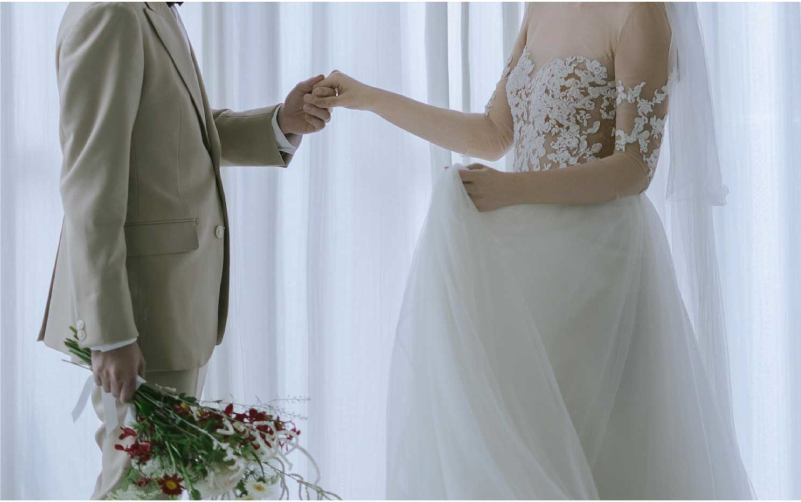
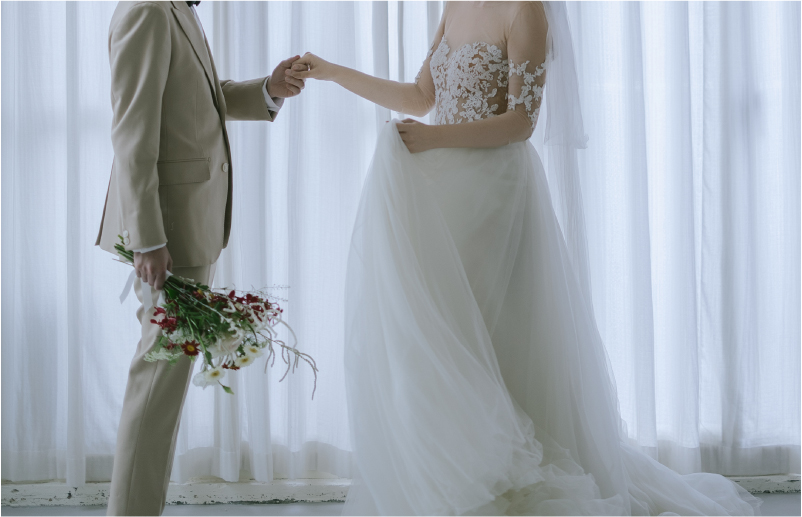
Adjust style

diff --git a/src/components/Images/HoldHands.js b/src/components/Images/HoldHands.js
@@ -14,7 +14,6 @@ gsap.registerPlugin(ScrollTrigger)
 const HoldHands = () => {
   const isProd = process.env.NODE_ENV === 'production'
   const rootUrl = process.env.NEXT_PUBLIC_ROOT_URL
-  const imageRef = useRef(null)
   const container = useRef(null)
   const [image, setImage] = useState('/2X0A4352-800.jpg')
   const [isLoaded, setIsLoaded] = useState(false)
@@ -28,7 +27,7 @@ const HoldHands = () => {
   useGSAP(
     () => {
       if (isLoaded) {
-        const image = imageRef?.current
+        const image = `.${styles.image}`
 
         gsap
           .to(image, {
@@ -46,7 +45,7 @@ const HoldHands = () => {
             yPercent: 20,
             scrollTrigger: {
               scrub: true,
-              start: 'top top',
+              start: 'top center',
               trigger: image
             }
           })
@@ -71,55 +70,12 @@ const HoldHands = () => {
       ref={container}
       className={styles.wrapper}
     >
-      <Image
-        ref={imageRef}
-        alt={image}
-        src={isProd ? `${rootUrl}${image}` : image}
-        fill={true}
-        sizes='100vw'
-      />
-      <div className={`${styles.text} ${AlohaMagazineLight.className}`}>
-        <div className={styles.line}>
-          <span>J</span>
-          <span>O</span>
-          <span>Y</span>
-          <span>F</span>
-          <span>U</span>
-          <span>L</span>
-          <span>L</span>
-          <span>Y</span>
-          &nbsp;
-          &nbsp;
-          <span>I</span>
-          <span>N</span>
-          <span>V</span>
-          <span>I</span>
-          <span>T</span>
-          <span>E</span>
-        </div>
-        <div className={styles.line}>
-          <span>Y</span>
-          <span>O</span>
-          <span>U</span>
-        </div>
-        <div className={styles.line}>
-          <span>T</span>
-          <span>O</span>
-          &nbsp;
-          &nbsp;
-          <span>O</span>
-          <span>U</span>
-          <span>R</span>
-        </div>
-        <div className={styles.line}>
-          <span>W</span>
-          <span>E</span>
-          <span>D</span>
-          <span>D</span>
-          <span>I</span>
-          <span>N</span>
-          <span>G</span>
-        </div>
+      <div className={styles.image}>
+        <Image
+          alt={image}
+          src={isProd ? `${rootUrl}${image}` : image}
+          fill={true}
+        />
       </div>
     </div>
   )

diff --git a/src/components/Images/HoldHands.module.scss b/src/components/Images/HoldHands.module.scss
@@ -1,107 +1,20 @@
 .wrapper {
   width: 100%;
-  height: calc(100vw * 0.5);
   margin: 100px 0;
-  overflow: hidden;
-  position: relative;
 
-  img {
+  .image {
+    width: 100%;
+    height: calc(100vw * 0.8);
     opacity: 0;
-    object-fit: cover;
-    object-position: left;
-  }
+    overflow: hidden;
 
-  .text {
-    color: #fff;
-    right: 0;
-    bottom: -5px;
-    position: absolute;
-
-    @media (min-width: 480px) {
-      bottom: -10px;
+    @media (min-width: 560px) {
+      height: calc(100vw * 0.5);
     }
 
-    .line {
-      display: flex;
-      justify-content: flex-end;
-
-      span {
-        opacity: 0;
-        transform: translateY(20px);
-        font-size: 4rem;
-        line-height: 3rem;
-      }
-
-      &:last-child {
-        span {
-          color: #b82a2a;
-          font-size: 6rem;
-          line-height: 4rem;
-        }
-      }
-
-      // @media (min-width: 480px) {
-      //   span {
-      //     font-size: 6rem;
-      //     line-height: 5rem;
-      //   }
-      // }
-
-      @media (min-width: 640px) {
-        span {
-          font-size: 8rem;
-          line-height: 6rem;
-        }
-
-        &:last-child {
-          span {
-            font-size: 10rem;
-            line-height: 7rem;
-          }
-        }
-      }
-
-      @media (min-width: 768px) {
-        span {
-          font-size: 10rem;
-          line-height: 7rem;
-        }
-
-        &:last-child {
-          span {
-            font-size: 12rem;
-            line-height: 8rem;
-          }
-        }
-      }
-
-      @media (min-width: 1060px) {
-        span {
-          font-size: 12rem;
-          line-height: 8rem;
-        }
-
-        &:last-child {
-          span {
-            font-size: 14rem;
-            line-height: 9rem;
-          }
-        }
-      }
+    img {
+      object-fit: cover;
+      object-position: left;
     }
-  }
-
-  @media (min-width: 480px) {
-    height: calc(100vw * 0.4);
-  }
-
-  @media (min-width: 640px) {
-    p {
-      font-size: 5rem;
-    }
-  }
-
-  @media (min-width: 900px) {
-    height: calc(100vw * 0.3);
   }
 }

diff --git a/src/components/Invitation/Content/Content.module.scss b/src/components/Invitation/Content/Content.module.scss
@@ -1,21 +1,25 @@
 .container {
   width: 100%;
   display: flex;
+  margin-top: -40vw;
   align-items: center;
   justify-content: center;
+
+  @media (min-width: 480px) {
+    margin-top: -30vw;
+  }
+
+  @media (min-width: 640px) {
+    margin-top: -20vw;
+  }
 }
 
 .wrapper {
   width: 100%;
   opacity: 0;
-  padding: 15px;
   transform: translateY(100px);
-  box-shadow: rgba(0, 0, 0, 0.1) 0px 10px 15px -3px, rgba(0, 0, 0, 0.05) 0px 4px 6px -2px;
+  box-shadow: rgba(17, 17, 26, 0.1) 0px 0px 16px;
   background-color: #fff;
-
-  @media (min-width: 480px) {
-    padding: 40px;
-  }
 
   @media (min-width: 640px) {
     width: 70%;
@@ -88,12 +92,22 @@
 }
 
 .image {
-  height: 300px;
+  height: calc(100vw * 0.5);
   overflow: hidden;
   position: relative;
 
   img {
+    transform: scale(1.01);
     object-fit: cover;
+    object-position: bottom;
+  }
+
+  @media (min-width: 640px) {
+    height: calc(100vw * 0.4);
+  }
+
+  @media (min-width: 1060px) {
+    height: calc(100vw * 0.3);
   }
 }
 

diff --git a/src/components/Invitation/Content/Content.js b/src/components/Invitation/Content/Content.js
@@ -37,7 +37,7 @@ const Content = () => {
       if (isLoaded) {
         const tl = gsap.timeline({
           scrollTrigger: {
-            start: 'top bottom-=10%',
+            start: 'top bottom-=20vw',
             trigger: `.${styles.wrapper}`
           }
         })
@@ -46,7 +46,6 @@ const Content = () => {
           .to(`.${styles.wrapper}`, {
             y: 0,
             ease: 'power4.out',
-            delay: 0.6,
             opacity: 1,
             duration: 1
           })
@@ -77,17 +76,6 @@ const Content = () => {
             stagger: 0.2,
             clipPath: 'polygon(0 0%, 100% 0%, 100% 100%, 0% 100%)',
             duration: 1
-          })
-
-        gsap
-          .to(`.${styles.image} img`, {
-            ease: 'none',
-            yPercent: 20,
-            scrollTrigger: {
-              scrub: true,
-              start: 'top top',
-              trigger: `.${styles.image} img`
-            }
           })
       }
     },
